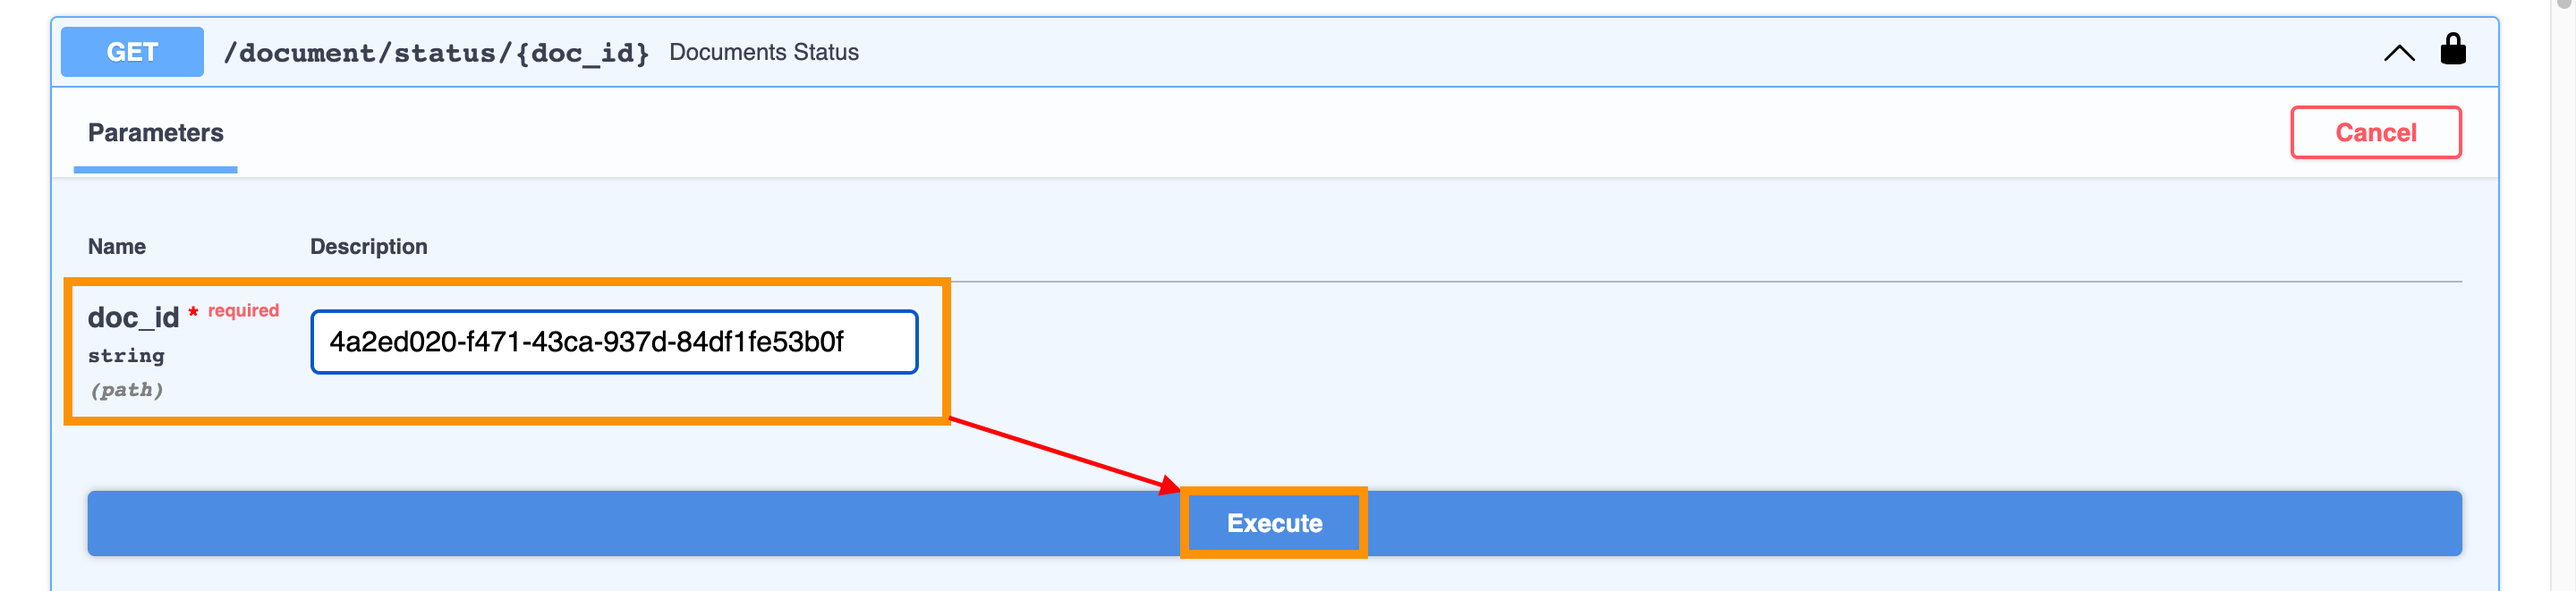
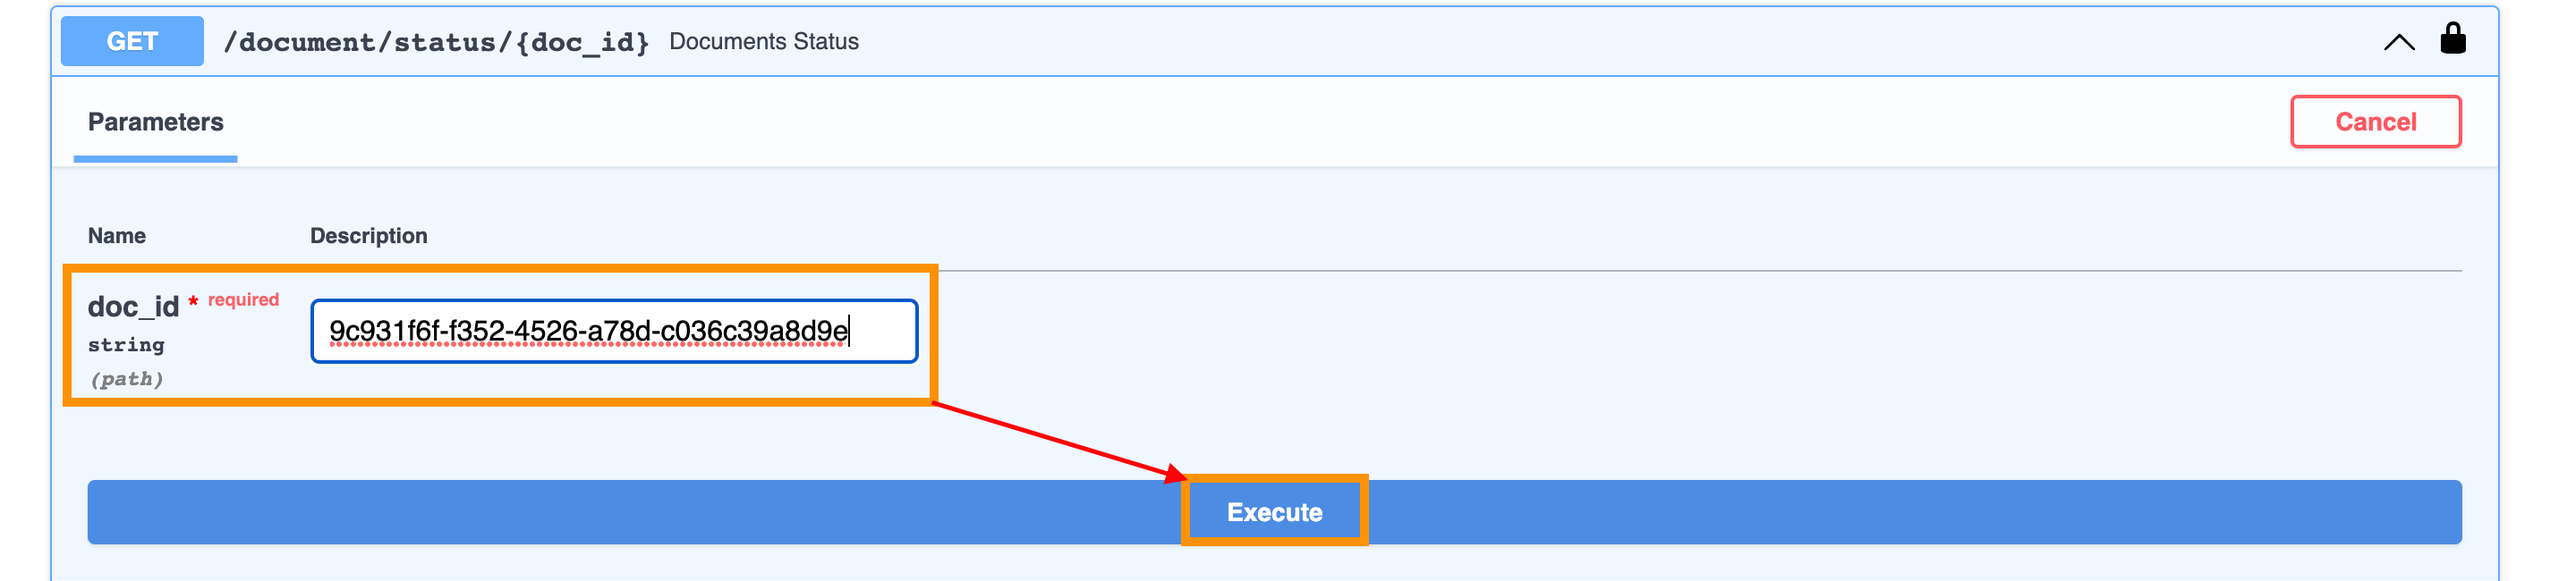
response doc status

diff --git a/docs/doc2/settings/integration/api-calls-examples.md b/docs/doc2/settings/integration/api-calls-examples.md
@@ -35,7 +35,7 @@ After completing steps **1.-3.**<br>
 
 ![Picture](/_images/doc2/DOC2_API_POST_Process.png){ loading=lazy }
 
-**5.** Open the tab and click on **Try it out** in the upper right corner to enter the following value
+**5.** Open the tab and click on `Try it out` in the upper right corner to enter the following value
 
 source:   **email:{Pattern name}**  
 
@@ -57,11 +57,20 @@ After completing steps **1.-3.**<br>
 
 ![Picture](/_images/doc2/DOC2_API_GET_Document-Status.png){ loading=lazy }
 
-**5.** Open the tab and click on **Try it out** in the upper right corner to enter the following value
+**5.** Open the tab and click on `Try it out` in the upper right corner to enter the following value
 
-doc-id:   https://app.polydocs.io/2a/**4a2ed020-f471-43ca-937d-84df1fe53b0f**
+doc-id:   https://app.polydocs.io/2a/**9c931f6f-f352-4526-a78d-c036c39a8d9e**
+
+You get the document id when you open the document on the dashboard. This is the last part of the URL when the document is open.
 
 ![Picture](/_images/doc2/DOC2_API_GET_Document-Status_doc_id.png){ loading=lazy }
+
+
+You will receive the following response:
+
+![Picture](/_images/doc2/DOC2_API_GET_Document-Status_Response.png){ loading=lazy }
+
+**Ready For Validation** means that the user can check the document.
 
 
 
